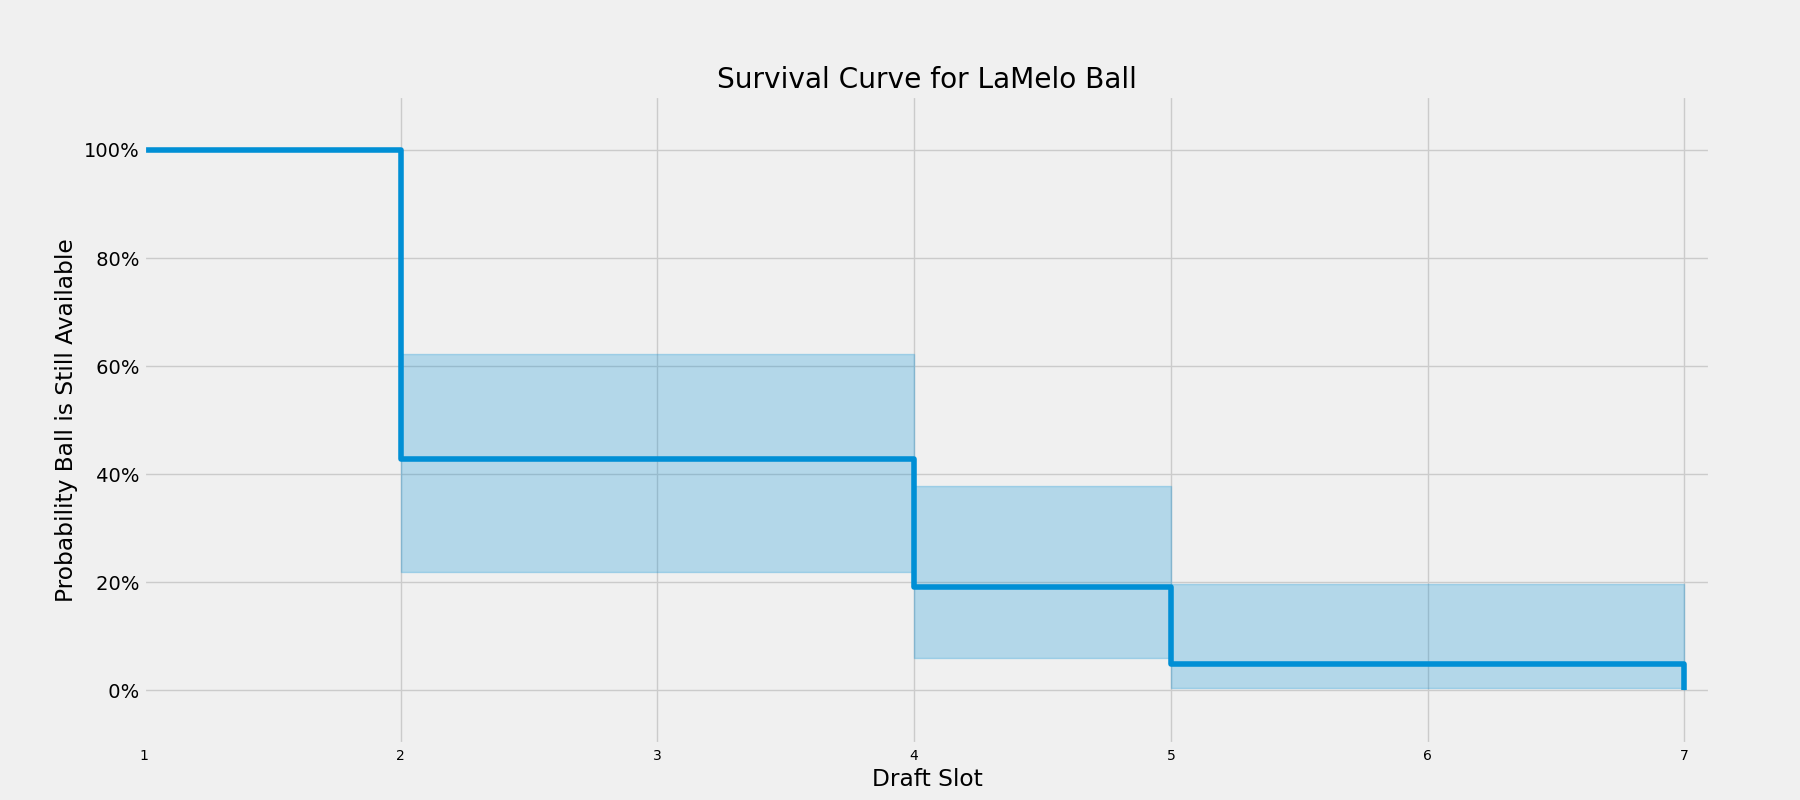
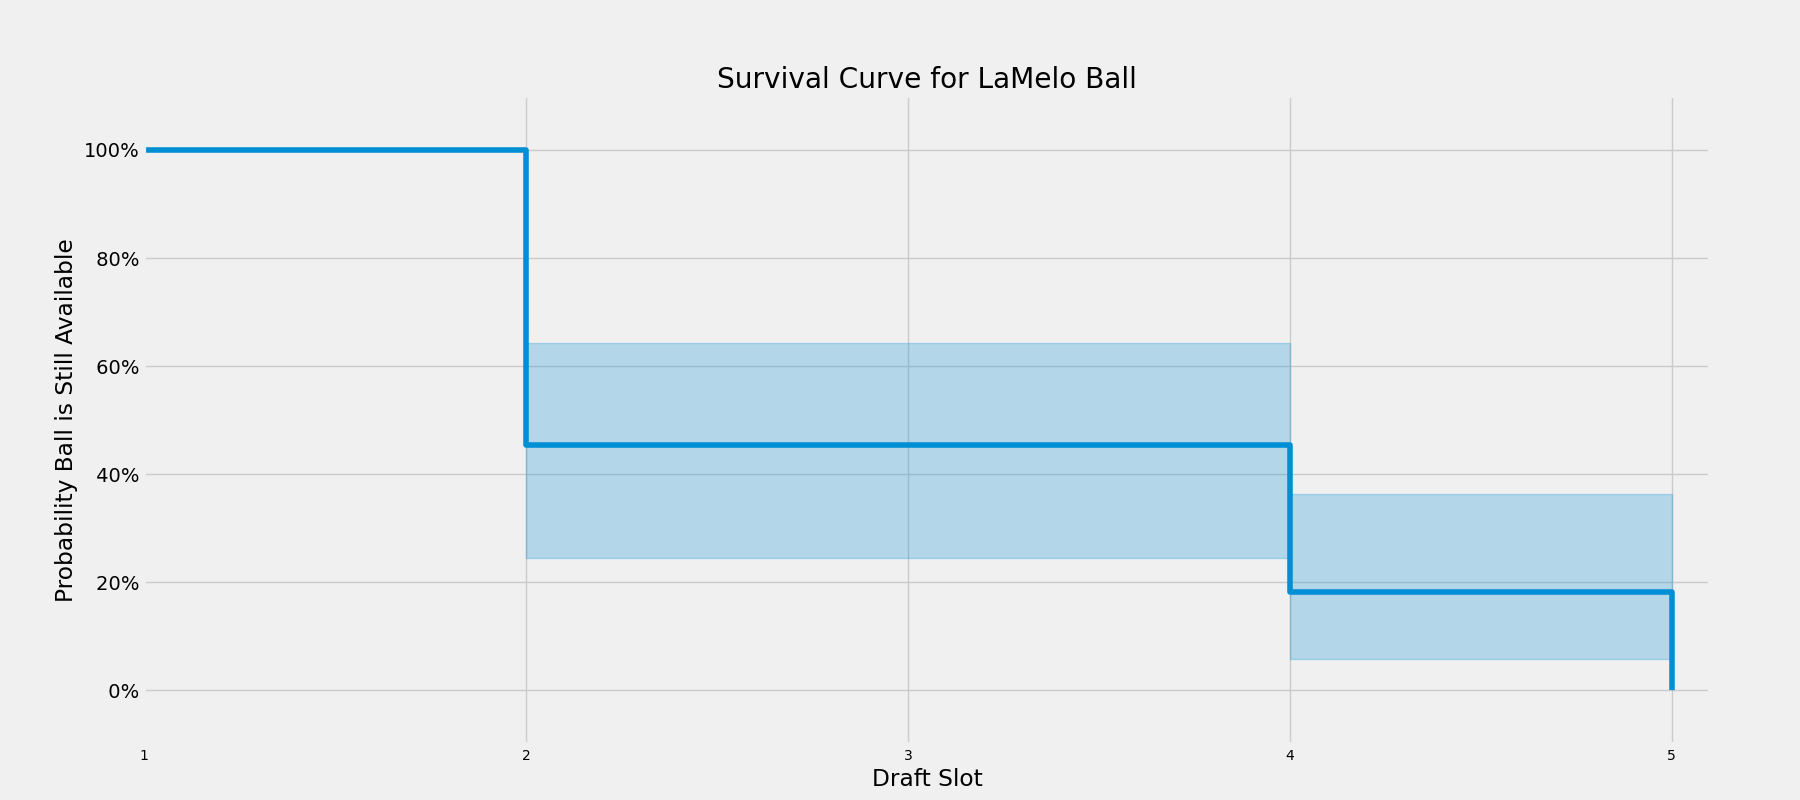
November 16 update

Changed region(s): [[0.2178, 0.1562, 0.9644, 0.875]]

diff --git a/scripts/survival_analysis.py b/scripts/survival_analysis.py
@@ -245,6 +245,7 @@ if __name__=='__main__':
     james_ham_df = pd.read_csv('../data/james_ham.csv')
     jeff_goodman_df = pd.read_csv('../data/jeff_goodman.csv')
     jeremy_woo_df = pd.read_csv('../data/jeremy_woo.csv')
+    john_hollinger_df = pd.read_csv('../data/john_hollinger.csv')
     jonathan_givony_df = pd.read_csv('../data/jonathan_givony.csv')
     jonathan_wasserman_df = pd.read_csv('../data/jonathan_wasserman.csv')
     kevin_oconnor_df = pd.read_csv('../data/kevin_oconnor.csv')
@@ -261,10 +262,11 @@ if __name__=='__main__':
     mock_draft_list = [babcock_hoops_df, bryan_kalbrosky_df, chad_ford_df,
                        chris_foresberg_df, chris_stone_df, danny_cunningham_df,
                        gary_parrish_df, james_ham_df, jeff_goodman_df,
-                       jeremy_woo_df, jonathan_givony_df, jonathan_wasserman_df,
-                       kevin_oconnor_df, krysten_peek_df, kyle_boone_df,
-                       nbadraftnet_df, netscouts_df, ricky_odonnell_df,
-                       sam_veceine_df, scott_gleeson_df, tankathon_df]
+                       jeremy_woo_df, john_hollinger_df, jonathan_givony_df,
+                       jonathan_wasserman_df, kevin_oconnor_df, krysten_peek_df,
+                       kyle_boone_df, nbadraftnet_df, netscouts_df,
+                       ricky_odonnell_df, sam_veceine_df, scott_gleeson_df,
+                       tankathon_df]
 
     mock_draft_list = [pre_process_mocks(df) for df in mock_draft_list]
 

diff --git a/readme.md b/readme.md
@@ -1,11 +1,11 @@
 <center> <h1>NBA Draft Survival Analysis</h1> </center>
-<center> <h3>Updated November 9, 2020</h3> </center>
+<center> <h3>Updated November 16, 2020</h3> </center>
 
 ---
 #### Motivation
 In preparation for the 2020 NBA Draft, I wanted to analyze when each prospect was likely to be selected. Compiling over 20 mock drafts from various draft analysts, I created a survival analysis which calculated the probability of each prospect being available at each draft slot.
 
-As an example, the following plot illustrates the probability that Anthony Edwards is available at each draft slot. Moving from left to right on the x-axis, we observe that based on the compiled mock drafts there is ~60% probability Edwards is available at pick number 2 and ~35% probability he is available at pick number 3.
+As an example, the following plot illustrates the probability that Anthony Edwards is available at each draft slot. Moving from left to right on the x-axis, we observe that based on the compiled mock drafts there is ~55% probability Edwards is available at pick number 2 and ~50% probability he is available at pick number 3.
 
 <div style="text-align:center"><img src='plots/players/anthony_edwards.png' width=70%></div>
 
@@ -24,29 +24,30 @@ Each player's survival curve is based on information compiled from over 20 mock 
 |---|---|---|---|
 | Babcock Hoops  | Babcock Hoops  | November 2  | [Link](https://www.babcockhoops.com/mockdraft)  |
 | Bryan Kalbrosky  | Rookie Wire  | October 22  | [Link](https://therookiewire.usatoday.com/lists/2020-nba-mock-draft-all-60-picks-post-combine/)  |
-| Chad Ford | NBA Big Board | November 5 | [Link](https://nbabigboard.com/mock-draft-1/) |
+| Chad Ford | NBA Big Board | November 15 | [Link](https://nbabigboard.com/mock-draft-2-0/) |
 | Chad Forsberg  | NBC Sports  | October 29  | [Link](https://www.nbcsports.com/boston/celtics/2020-nba-mock-draft-90-best-players-available-fit-team-needs)  |
 | Chris Stone  | Sporting News  | March 24  | [Link](https://www.sportingnews.com/us/nba/news/nba-mock-draft-2020-warriors-pick-timberwolves-lamelo-ball/178cr8zivu85e1qdtavgxp9cc2)  |
 | Danny Cunningham  | Complex  | November 2  | [Link](https://www.complex.com/sports/nba-mock-draft-pre-nba-draft/)  |
-| Gary Parrish  | CBS Sports  | October 9  | [Link](https://www.cbssports.com/nba/draft/mock-draft/)  |
-| James Ham  | NBC Sports | October 26  | [Link](https://www.nbcsports.com/bayarea/warriors/2020-nba-mock-draft-190-first-round-pick-projections-after-finals)  |
+| Gary Parrish  | CBS Sports  | November 13  | [Link](https://www.cbssports.com/nba/draft/mock-draft/)  |
+| James Ham  | NBC Sports | November 16  | [Link](https://www.nbcsports.com/bayarea/warriors/2020-nba-mock-draft-210-first-round-pick-projections-final-week)  |
 | Jeff Goodman  | Stadium  | August 21  | [Link](https://watchstadium.com/jeff-goodmans-2020-nba-mock-draft-3-0-lottery-order-revealed-08-20-2020/)  |
-| Jeremy Woo  | Sports Illustrated  | October 14  | [Link](https://www.si.com/nba/2020/10/14/nba-mock-draft-projections-post-finals)  |
-| Jonathan Givony  | ESPN  | August 20  | [Link](https://www.espn.com/nba/insider/story/_/id/29695731/nba-mock-draft-projected-picks-big-lottery-winners)  |
-| Jonathan Wasserman  | Bleacher Report  | November 4  | [Link](https://bleacherreport.com/articles/2915634-2020-nba-mock-draft-2-weeks-to-go-who-goes-no-1)  |
-| Kevin O'Connor  | The Ringer  | November 3 | [Link](https://nbadraft.theringer.com/)  |
+| Jeremy Woo  | Sports Illustrated  | November 16  | [Link](https://www.si.com/nba/2020/11/16/nba-mock-draft-latest-updates-rumors-daily-cover)  |
+| John Hollinger | The Athletic | November 10 | [Link](https://theathletic.com/2188482/2020/11/10/2020-nba-mock-draft-whos-going-where-in-the-first-round/) |
+| Jonathan Givony  | ESPN  | November 16  | [Link](https://www.espn.com/nba/insider/story/_/id/30286832/nba-mock-draft-our-latest-intel-most-likely-picks-trades)  |
+| Jonathan Wasserman  | Bleacher Report  | November 16  | [Link](https://bleacherreport.com/articles/2917825-bleacher-reports-final-2020-nba-mock-draft)  |
+| Kevin O'Connor  | The Ringer  | November 12 | [Link](https://nbadraft.theringer.com/)  |
 | Krysten Peek  | Yahoo Sports  | November 5  | [Link](https://sports.yahoo.com/2020-nba-mock-draft-60-la-melo-ball-remains-no-1-163601345.html)  |
-| Kyle Boone  | CBS Sports  | October 21  | [Link](https://www.cbssports.com/nba/draft/mock-draft/)  |
-| NBAdraftnet | NBAdraftnet | November 3 | [Link](https://www.nbadraft.net/nba-mock-drafts/) |
-| NetScouts  | NetScouts  | October 20  | [Link](https://netscoutsbasketball.com/scouting/2020-nba-mock-draft/)  |
+| Kyle Boone  | CBS Sports  | November 13  | [Link](https://www.cbssports.com/nba/draft/mock-draft/)  |
+| NBAdraftnet | NBAdraftnet | November 14 | [Link](https://www.nbadraft.net/nba-mock-drafts/) |
+| NetScouts  | NetScouts  | November 13  | [Link](https://netscoutsbasketball.com/scouting/2020-nba-mock-draft/)  |
 | Ricky O'Donnell  | SB Nation  | November 5  | [Link](https://www.sbnation.com/nba/2020/11/5/21546769/nba-mock-draft-2020-lamelo-ball-anthony-edwards-warriors-bulls-rumors)  |
-| Sam Veceine  | The Athletic  | October 13  | [Link](https://theathletic.com/2128239/2020/10/13/lamelo-ball-over-james-wiseman-at-no-1-in-2020-nba-mock-draft-version-8-0/)  |
-| Scott Gleeson  | USA Today  | November 5  | [Link](https://www.usatoday.com/story/sports/nba/2020/11/05/nba-mock-draft-lamelo-ball-dips-riskier-pick-anthony-edwards/6120393002/)  |
-| Tankathon  | Tankathon  | October 24  | [Link](http://www.tankathon.com/mock_draft)  |
+| Sam Veceine  | The Athletic  | November 16  | [Link](https://theathletic.com/2198283/2020/11/16/2020-nba-draft-order-mock-draft-lamelo-ball-james-wiseman-anthony-edwards-live-updates-team-fit/)  |
+| Scott Gleeson  | USA Today  | November 12  | [Link](https://www.usatoday.com/story/sports/nba/2020/11/12/nba-mock-draft-lamelo-ball-anthony-edwards-no-1-pick/6235919002/)  |
+| Tankathon  | Tankathon  | November 15  | [Link](http://www.tankathon.com/mock_draft)  |
 
 #### Consensus Top-3 Picks
 
-Based on the average draft slot across all mock drafts Anthony Edwards (1.9), LaMelo Ball (2.1), and James Wiseman (3.2) are the consensus top three picks. Their respective survival curves are plotted below. At this point in time Edwards and Ball are the heavy favorites to go in the first two picks. Wiseman is ranked substantially lower in a few mocks resulting in a low probability of him falling to the 11th pick.
+Based on the average draft slot across all mock drafts Anthony Edwards (2.04), LaMelo Ball (2.09), and James Wiseman (2.54) are the consensus top three picks. Their respective survival curves are plotted below. At this point in time Edwards and Ball are a toss up as to who goes first overall. However, Wiseman then has the highest probability of going second.
 
 <div style="text-align:center"><img src='plots/top_3.png' width=90%></div>
 
@@ -58,7 +59,7 @@ In similar fashion, here are the survival curves of the consensus top-10 picks.
 
 #### Case Studies
 
-At this point the mock drafts have Anthony Edwards as the most likely first overall pick just ahead of LaMelo Ball. There's ~60% probability he is available at the number two pick and ~35% chance he is available at the third pick. Based on the mocks there is no chance he falls to the 4th pick.
+At this point the mock drafts have Anthony Edwards as the most likely first overall pick just ahead of LaMelo Ball. There's ~55% probability he is available at the number two pick and ~50% chance he is available at the third pick. Based on the mocks there is no chance he falls to the 4th pick.
 
 <div style="text-align:center"><img src='plots/players/anthony_edwards.png' width=90%></div>
 
@@ -70,7 +71,7 @@ Xavier Tillman provides a good example of a player likely to go in the middle of
 
 <br>
 
-Kenyon Martin Jr. is a player on the fringe of being drafted. The mock drafts have him unlikely to be selected prior to pick number 55. In total, there is ~75% probability he goes undrafted.
+Kenyon Martin Jr. is a player on the fringe of being drafted. The mock drafts have him unlikely to be selected prior to pick number 50. In total, there is ~65% probability he goes undrafted.
 
 <div style="text-align:center"><img src='plots/players/kenyon_martin_jr.png' width=90%></div>
 
